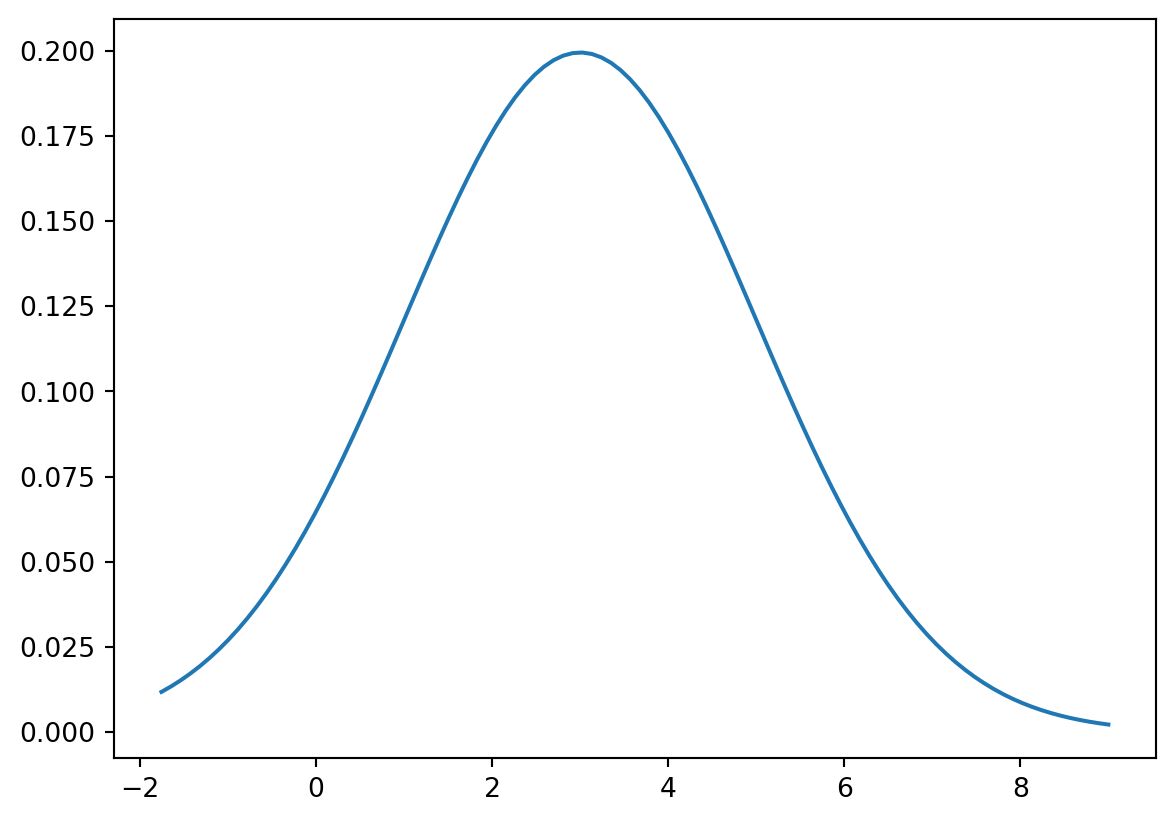
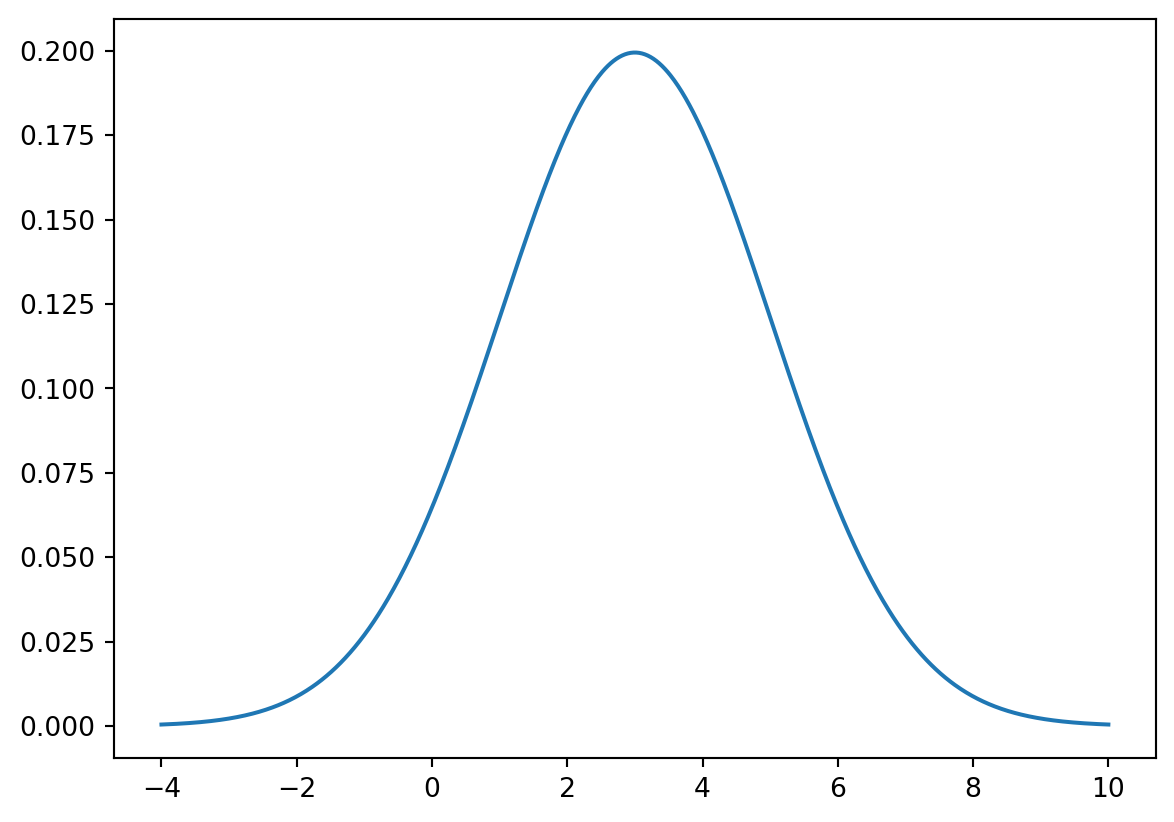
.

diff --git a/docs/hw3.html b/docs/hw3.html
@@ -180,7 +180,7 @@ pre > code.sourceCode > span > a:first-child::before { text-decoration: underlin
 
 <section id="숙제-qmd-1.-정규-분포-pdf-값을-계산하는-자신만의-파이썬-함수를-정의하고-정규분포-mu-3-sigma-2-의-pdf를-그릴-것." class="level2">
 <h2 class="anchored" data-anchor-id="숙제-qmd-1.-정규-분포-pdf-값을-계산하는-자신만의-파이썬-함수를-정의하고-정규분포-mu-3-sigma-2-의-pdf를-그릴-것.">1. 숙제 Qmd 1. 정규 분포 pdf 값을 계산하는 자신만의 파이썬 함수를 정의하고, 정규분포 mu = 3 , sigma = 2 의 pdf를 그릴 것.</h2>
-<div id="bb4acbb3" class="cell" data-execution_count="1">
+<div id="f36115f0" class="cell" data-execution_count="1">
 <div class="sourceCode cell-code" id="cb1"><pre class="sourceCode python code-with-copy"><code class="sourceCode python"><span id="cb1-1"><a href="#cb1-1" aria-hidden="true" tabindex="-1"></a><span class="im">from</span> scipy.stats <span class="im">import</span> norm</span>
 <span id="cb1-2"><a href="#cb1-2" aria-hidden="true" tabindex="-1"></a><span class="im">from</span> scipy.stats <span class="im">import</span> binom</span>
 <span id="cb1-3"><a href="#cb1-3" aria-hidden="true" tabindex="-1"></a><span class="im">from</span> scipy.stats <span class="im">import</span> bernoulli</span>
@@ -189,26 +189,23 @@ pre > code.sourceCode > span > a:first-child::before { text-decoration: underlin
 <span id="cb1-6"><a href="#cb1-6" aria-hidden="true" tabindex="-1"></a><span class="im">import</span> seaborn <span class="im">as</span> sns</span>
 <span id="cb1-7"><a href="#cb1-7" aria-hidden="true" tabindex="-1"></a><span class="im">import</span> numpy <span class="im">as</span> np</span>
 <span id="cb1-8"><a href="#cb1-8" aria-hidden="true" tabindex="-1"></a></span>
-<span id="cb1-9"><a href="#cb1-9" aria-hidden="true" tabindex="-1"></a>norm.pdf(<span class="dv">0</span>,loc <span class="op">=</span> <span class="dv">0</span>,scale <span class="op">=</span> <span class="dv">1</span>)</span>
-<span id="cb1-10"><a href="#cb1-10" aria-hidden="true" tabindex="-1"></a><span class="kw">def</span> my_pdf(x,mu,sigma):</span>
-<span id="cb1-11"><a href="#cb1-11" aria-hidden="true" tabindex="-1"></a>    <span class="im">import</span> math </span>
-<span id="cb1-12"><a href="#cb1-12" aria-hidden="true" tabindex="-1"></a>    <span class="cf">return</span> (<span class="dv">1</span><span class="op">/</span>(sigma<span class="op">*</span>((<span class="dv">2</span><span class="op">*</span>math.pi)<span class="op">**</span><span class="fl">0.5</span>)))<span class="op">*</span> math.exp( ( <span class="op">-</span><span class="fl">0.5</span>) <span class="op">*</span>( ((x<span class="op">-</span>mu)<span class="op">/</span>sigma) <span class="op">**</span><span class="dv">2</span>))</span>
-<span id="cb1-13"><a href="#cb1-13" aria-hidden="true" tabindex="-1"></a></span>
-<span id="cb1-14"><a href="#cb1-14" aria-hidden="true" tabindex="-1"></a>my_pdf(<span class="dv">0</span>,<span class="dv">0</span>,<span class="dv">1</span>)</span>
+<span id="cb1-9"><a href="#cb1-9" aria-hidden="true" tabindex="-1"></a><span class="kw">def</span> my_pdf(x,mu,sigma):</span>
+<span id="cb1-10"><a href="#cb1-10" aria-hidden="true" tabindex="-1"></a>    <span class="im">import</span> math </span>
+<span id="cb1-11"><a href="#cb1-11" aria-hidden="true" tabindex="-1"></a>    <span class="cf">return</span> (<span class="dv">1</span><span class="op">/</span>(sigma<span class="op">*</span>((<span class="dv">2</span><span class="op">*</span>math.pi)<span class="op">**</span><span class="fl">0.5</span>)))<span class="op">*</span> math.exp( ( <span class="op">-</span><span class="fl">0.5</span>) <span class="op">*</span>( ((x<span class="op">-</span>mu)<span class="op">/</span>sigma) <span class="op">**</span><span class="dv">2</span>))</span>
+<span id="cb1-12"><a href="#cb1-12" aria-hidden="true" tabindex="-1"></a></span>
+<span id="cb1-13"><a href="#cb1-13" aria-hidden="true" tabindex="-1"></a>my_pdf(<span class="dv">0</span>,<span class="dv">0</span>,<span class="dv">1</span>)</span>
+<span id="cb1-14"><a href="#cb1-14" aria-hidden="true" tabindex="-1"></a></span>
 <span id="cb1-15"><a href="#cb1-15" aria-hidden="true" tabindex="-1"></a></span>
-<span id="cb1-16"><a href="#cb1-16" aria-hidden="true" tabindex="-1"></a>a <span class="op">=</span> norm.rvs(loc <span class="op">=</span><span class="dv">3</span>, scale<span class="op">=</span><span class="dv">2</span>,size<span class="op">=</span><span class="dv">100</span>)</span>
+<span id="cb1-16"><a href="#cb1-16" aria-hidden="true" tabindex="-1"></a>a_lin <span class="op">=</span> np.linspace(<span class="op">-</span><span class="dv">4</span>,<span class="dv">10</span>,<span class="dv">1000</span>)</span>
 <span id="cb1-17"><a href="#cb1-17" aria-hidden="true" tabindex="-1"></a></span>
-<span id="cb1-18"><a href="#cb1-18" aria-hidden="true" tabindex="-1"></a>a_min,a_max<span class="op">=</span>(a.<span class="bu">min</span>(),a.<span class="bu">max</span>())</span>
-<span id="cb1-19"><a href="#cb1-19" aria-hidden="true" tabindex="-1"></a>a_lin <span class="op">=</span> np.linspace(a_min,<span class="dv">9</span>,<span class="dv">100</span>)</span>
-<span id="cb1-20"><a href="#cb1-20" aria-hidden="true" tabindex="-1"></a></span>
-<span id="cb1-21"><a href="#cb1-21" aria-hidden="true" tabindex="-1"></a>a_list <span class="op">=</span> [ ]</span>
-<span id="cb1-22"><a href="#cb1-22" aria-hidden="true" tabindex="-1"></a><span class="cf">for</span> x <span class="kw">in</span> a_lin :</span>
-<span id="cb1-23"><a href="#cb1-23" aria-hidden="true" tabindex="-1"></a>    a_list.append(my_pdf(x,<span class="dv">3</span>,<span class="dv">2</span>))</span>
-<span id="cb1-24"><a href="#cb1-24" aria-hidden="true" tabindex="-1"></a></span>
-<span id="cb1-25"><a href="#cb1-25" aria-hidden="true" tabindex="-1"></a>b <span class="op">=</span> np.array(a_list)</span>
-<span id="cb1-26"><a href="#cb1-26" aria-hidden="true" tabindex="-1"></a>plt.plot(a_lin,a_list)</span>
-<span id="cb1-27"><a href="#cb1-27" aria-hidden="true" tabindex="-1"></a>plt.show()</span>
-<span id="cb1-28"><a href="#cb1-28" aria-hidden="true" tabindex="-1"></a>plt.clf()</span></code><button title="Copy to Clipboard" class="code-copy-button"><i class="bi"></i></button></pre></div>
+<span id="cb1-18"><a href="#cb1-18" aria-hidden="true" tabindex="-1"></a>a_arr <span class="op">=</span> np.array([])</span>
+<span id="cb1-19"><a href="#cb1-19" aria-hidden="true" tabindex="-1"></a><span class="cf">for</span> x <span class="kw">in</span> a_lin :</span>
+<span id="cb1-20"><a href="#cb1-20" aria-hidden="true" tabindex="-1"></a>    a_arr <span class="op">=</span> np.append(a_arr,my_pdf(x,<span class="dv">3</span>,<span class="dv">2</span>))</span>
+<span id="cb1-21"><a href="#cb1-21" aria-hidden="true" tabindex="-1"></a></span>
+<span id="cb1-22"><a href="#cb1-22" aria-hidden="true" tabindex="-1"></a></span>
+<span id="cb1-23"><a href="#cb1-23" aria-hidden="true" tabindex="-1"></a>plt.plot(a_lin,a_arr)</span>
+<span id="cb1-24"><a href="#cb1-24" aria-hidden="true" tabindex="-1"></a>plt.show()</span>
+<span id="cb1-25"><a href="#cb1-25" aria-hidden="true" tabindex="-1"></a>plt.clf()</span></code><button title="Copy to Clipboard" class="code-copy-button"><i class="bi"></i></button></pre></div>
 <div class="cell-output cell-output-display">
 <div>
 <figure class="figure">
@@ -223,7 +220,7 @@ pre > code.sourceCode > span > a:first-child::before { text-decoration: underlin
 </section>
 <section id="파이썬-scipy-패키지-사용해서-다음과-같은-확률을-구하시오." class="level2">
 <h2 class="anchored" data-anchor-id="파이썬-scipy-패키지-사용해서-다음과-같은-확률을-구하시오.">2. 파이썬 scipy 패키지 사용해서 다음과 같은 확률을 구하시오.</h2>
-<div id="f1854760" class="cell" data-execution_count="2">
+<div id="5420dc9c" class="cell" data-execution_count="2">
 <div class="sourceCode cell-code" id="cb3"><pre class="sourceCode python code-with-copy"><code class="sourceCode python"><span id="cb3-1"><a href="#cb3-1" aria-hidden="true" tabindex="-1"></a><span class="co">#X ~ N(2, 3^2)</span></span>
 <span id="cb3-2"><a href="#cb3-2" aria-hidden="true" tabindex="-1"></a></span>
 <span id="cb3-3"><a href="#cb3-3" aria-hidden="true" tabindex="-1"></a> </span>
@@ -242,7 +239,7 @@ pre > code.sourceCode > span > a:first-child::before { text-decoration: underlin
 </section>
 <section id="ls-빅데이터-스쿨-학생들의-중간고사-점수는-평균이-30이고-분산이-4인-정규분포를-따른다.-상위-5에-해당하는-학생의-점수는" class="level2">
 <h2 class="anchored" data-anchor-id="ls-빅데이터-스쿨-학생들의-중간고사-점수는-평균이-30이고-분산이-4인-정규분포를-따른다.-상위-5에-해당하는-학생의-점수는">3. LS 빅데이터 스쿨 학생들의 중간고사 점수는 평균이 30이고, 분산이 4인 정규분포를 따른다. 상위 5%에 해당하는 학생의 점수는?</h2>
-<div id="c4e5421d" class="cell" data-execution_count="3">
+<div id="ac99d58a" class="cell" data-execution_count="3">
 <div class="sourceCode cell-code" id="cb5"><pre class="sourceCode python code-with-copy"><code class="sourceCode python"><span id="cb5-1"><a href="#cb5-1" aria-hidden="true" tabindex="-1"></a>norm.ppf(<span class="fl">0.95</span>,loc <span class="op">=</span> <span class="dv">30</span>,scale <span class="op">=</span> <span class="dv">2</span>)</span></code><button title="Copy to Clipboard" class="code-copy-button"><i class="bi"></i></button></pre></div>
 <div class="cell-output cell-output-display" data-execution_count="3">
 <pre><code>np.float64(33.28970725390295)</code></pre>
